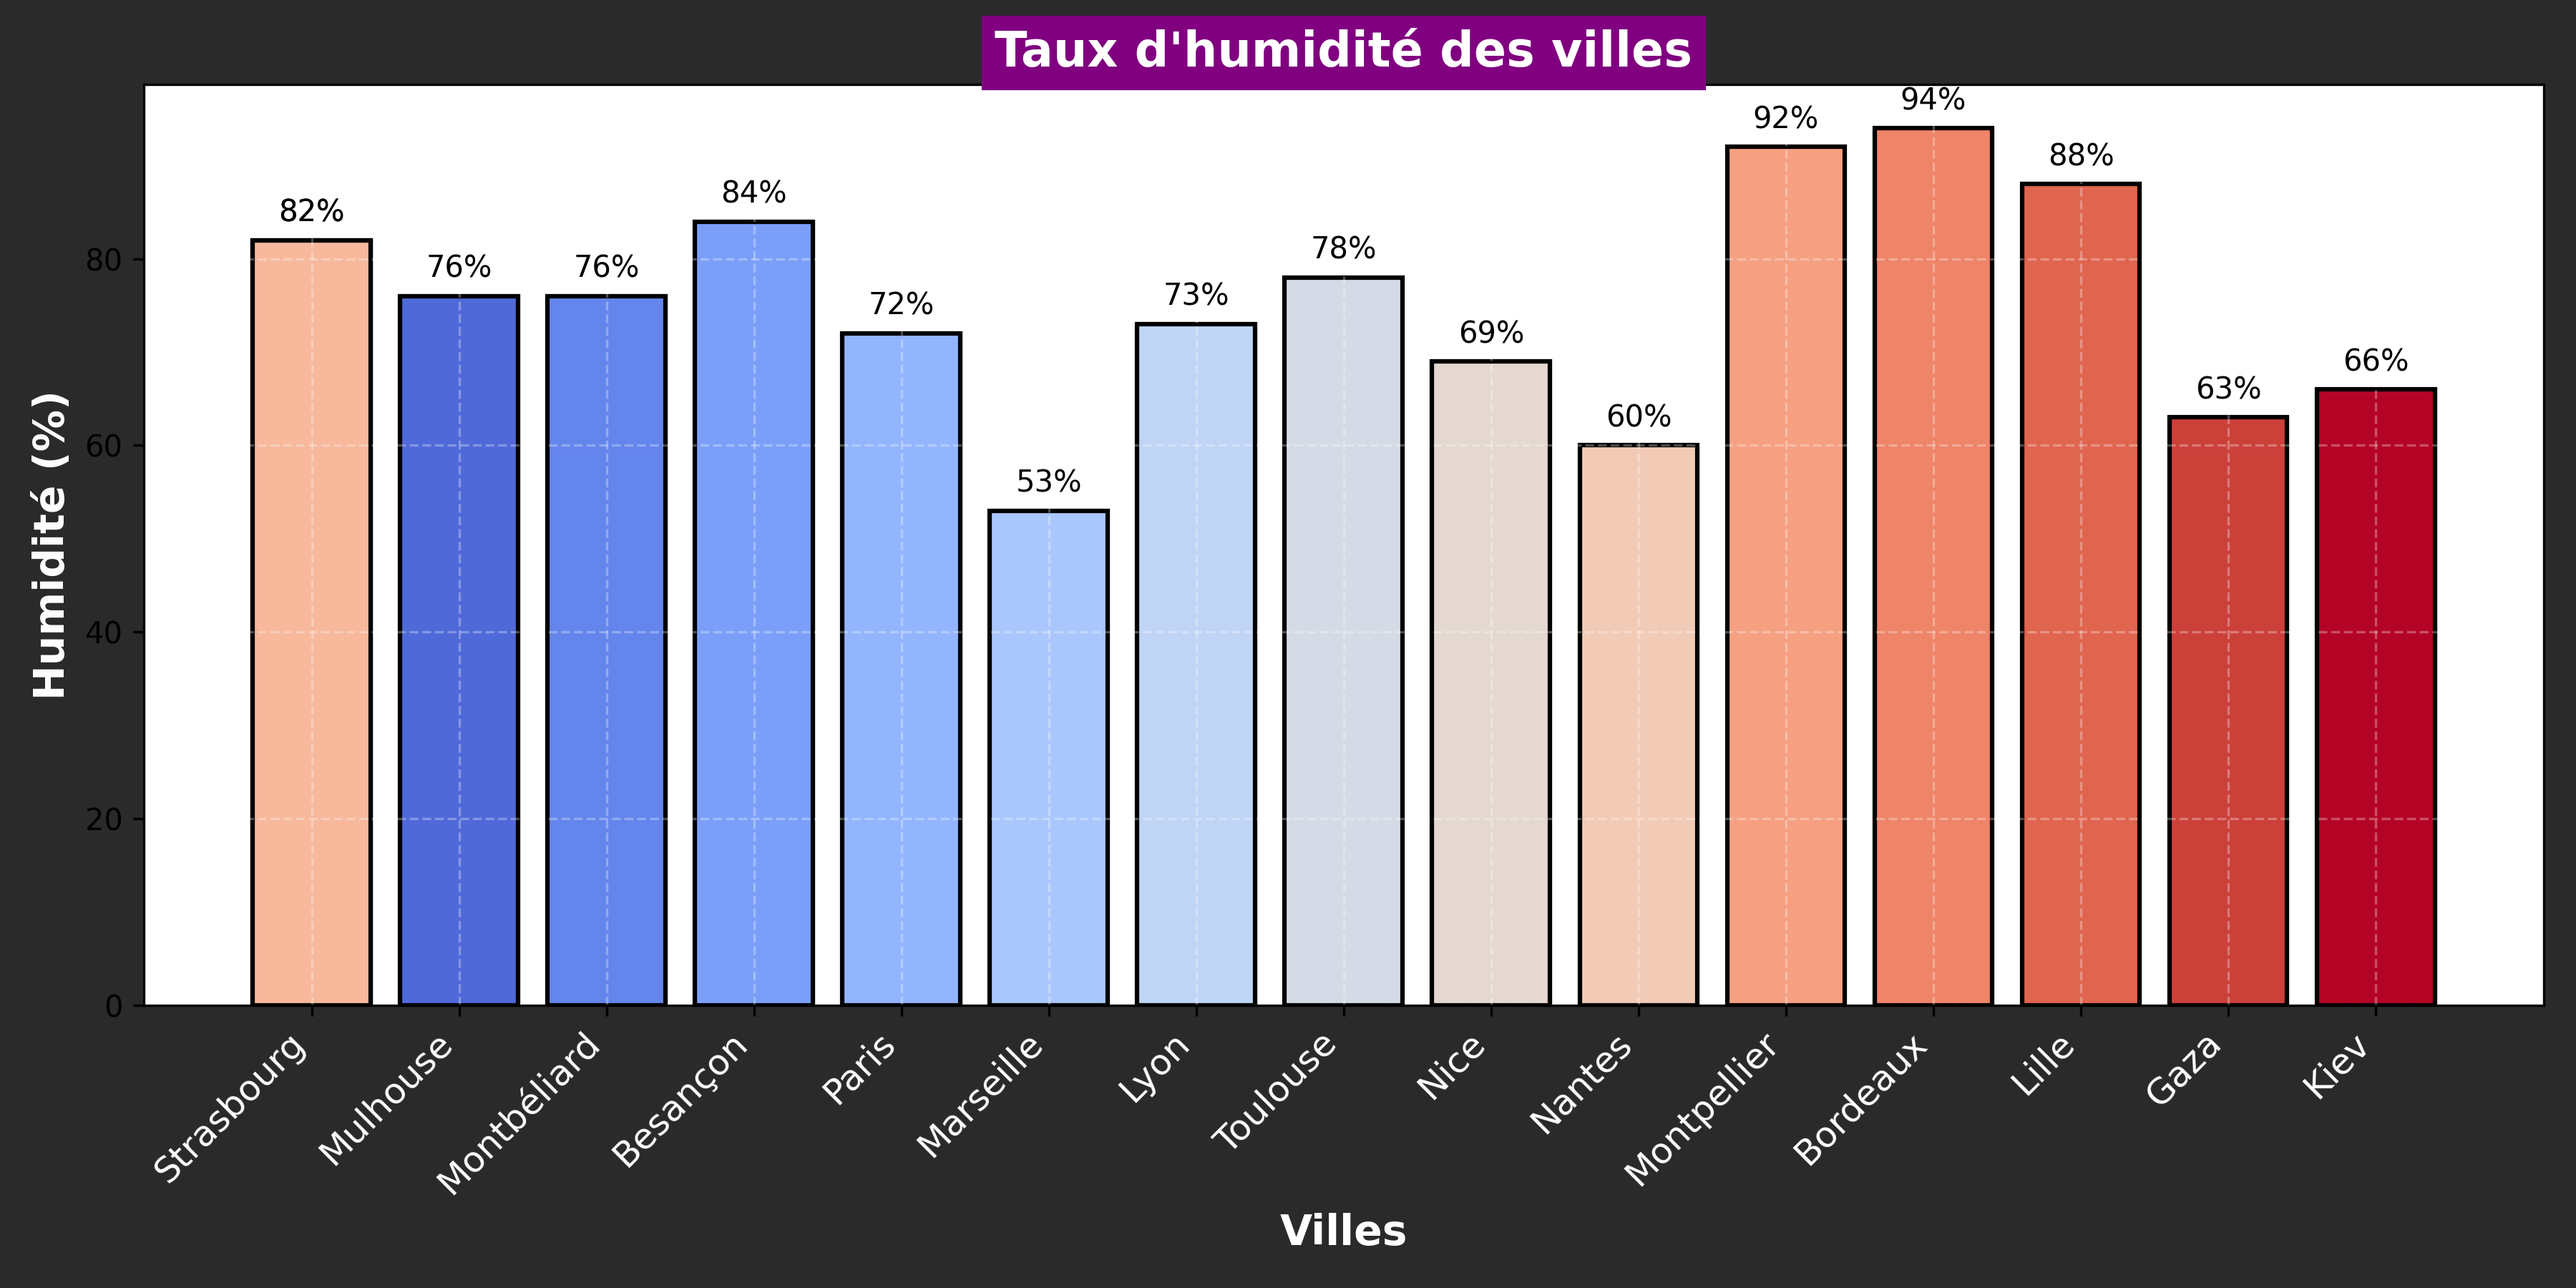
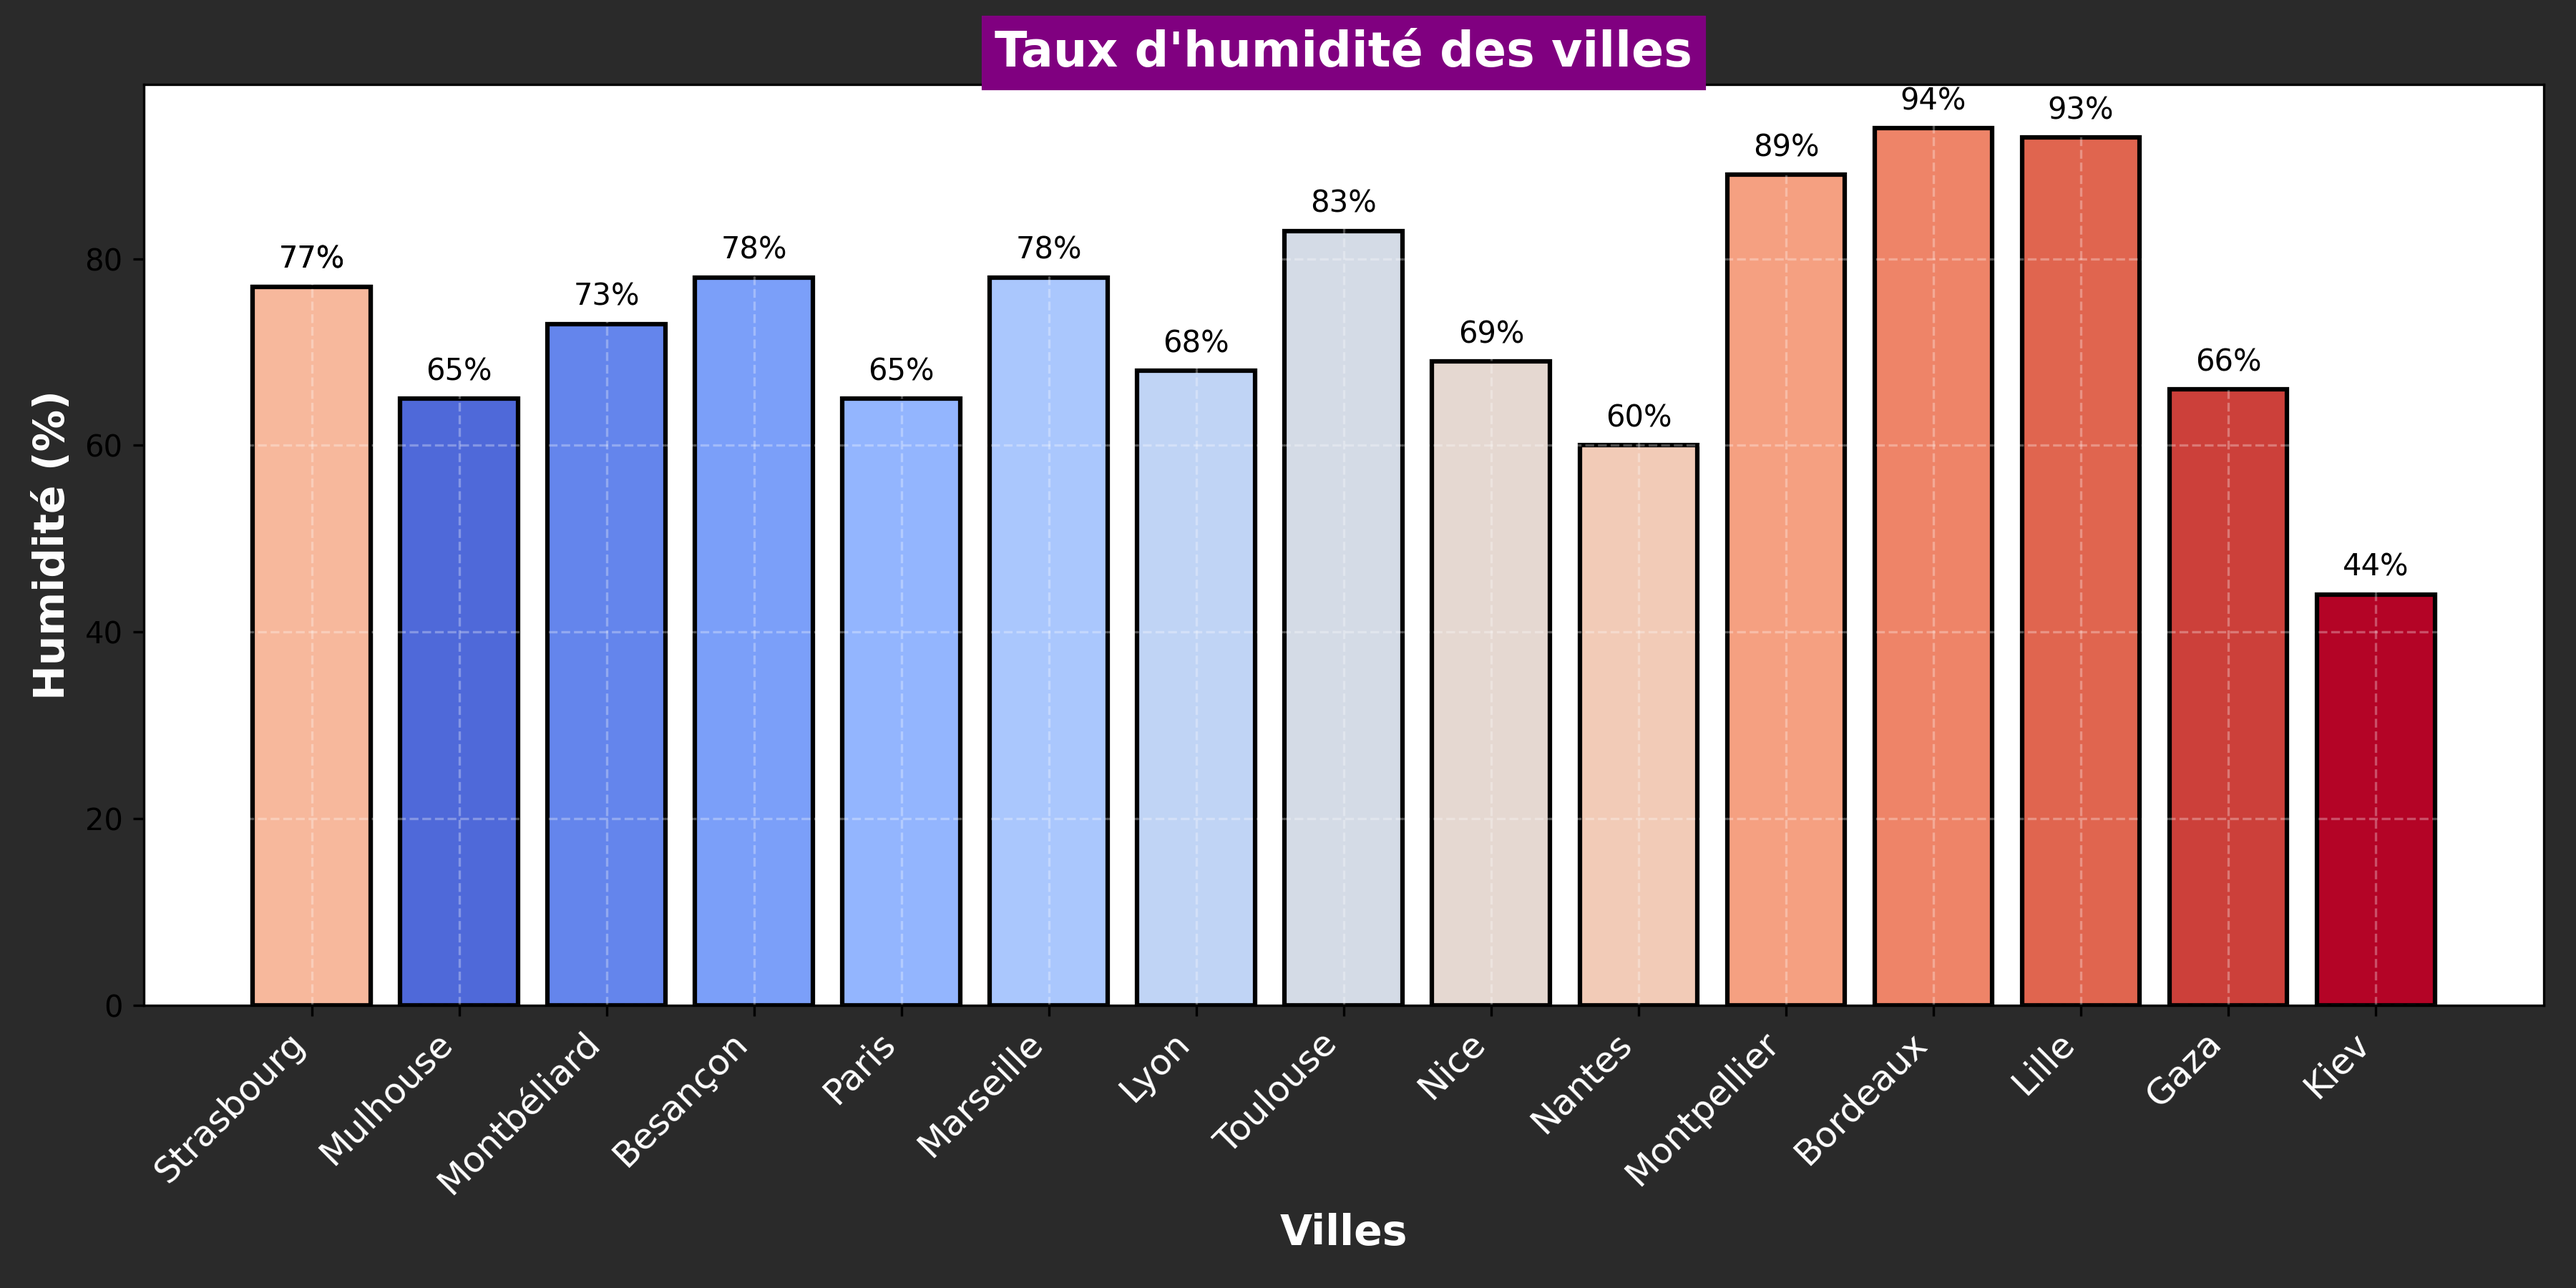
Mise à jour de la météo et ajout du graphique d'humidité

diff --git a/README.md b/README.md
@@ -24,103 +24,103 @@ Ce repo contient plusieurs workflows GitHub Actions :
 ## Météo actuelle :
 ## Météo des grandes villes + Gaza et Kiev 🌍
 
-🕒 Mise à jour : 12/07/2025 08:17:35
+🕒 Mise à jour : 13/07/2025 08:18:11
 
 ### 🌍 Strasbourg ☀
 **Conditions :** ciel dégagé
-**Température :** 15.94°C
-**Humidité :** 82%
-**Vent :** 0.51 m/s
+**Température :** 17.04°C
+**Humidité :** 77%
+**Vent :** 1.54 m/s
 
 ### 🌍 Mulhouse ☀
 **Conditions :** ciel dégagé
-**Température :** 16.32°C
-**Humidité :** 76%
-**Vent :** 1.03 m/s
+**Température :** 18.25°C
+**Humidité :** 65%
+**Vent :** 3.09 m/s
 
-### 🌍 Montbéliard 🌥
-**Conditions :** peu nuageux
-**Température :** 18.32°C
-**Humidité :** 76%
-**Vent :** 3.04 m/s
+### 🌍 Montbéliard ☀
+**Conditions :** ciel dégagé
+**Température :** 20.54°C
+**Humidité :** 73%
+**Vent :** 1.5 m/s
 
 ### 🌍 Besançon ☀
 **Conditions :** ciel dégagé
-**Température :** 16.85°C
-**Humidité :** 84%
-**Vent :** 1.72 m/s
+**Température :** 17.4°C
+**Humidité :** 78%
+**Vent :** 1.38 m/s
 
 ### 🌍 Paris ☀
 **Conditions :** ciel dégagé
-**Température :** 20.46°C
-**Humidité :** 72%
-**Vent :** 3.09 m/s
+**Température :** 19.75°C
+**Humidité :** 65%
+**Vent :** 2.57 m/s
 
-### 🌍 Marseille ☀
-**Conditions :** ciel dégagé
-**Température :** 20.29°C
-**Humidité :** 53%
-**Vent :** 1.58 m/s
+### 🌍 Marseille 🌥
+**Conditions :** partiellement nuageux
+**Température :** 20.7°C
+**Humidité :** 78%
+**Vent :** 2.24 m/s
 
-### 🌍 Lyon ☀
-**Conditions :** ciel dégagé
-**Température :** 17.07°C
-**Humidité :** 73%
-**Vent :** 1.04 m/s
+### 🌍 Lyon 🌥
+**Conditions :** nuageux
+**Température :** 20.75°C
+**Humidité :** 68%
+**Vent :** 1.08 m/s
 
 ### 🌍 Toulouse 🌥
 **Conditions :** nuageux
-**Température :** 22.99°C
-**Humidité :** 78%
-**Vent :** 0 m/s
+**Température :** 19.99°C
+**Humidité :** 83%
+**Vent :** 2.57 m/s
 
-### 🌍 Nice ☀
-**Conditions :** ciel dégagé
-**Température :** 14.72°C
+### 🌍 Nice 🌥
+**Conditions :** nuageux
+**Température :** 16.94°C
 **Humidité :** 69%
-**Vent :** 0.99 m/s
+**Vent :** 0.86 m/s
 
 ### 🌍 Nantes ☀
 **Conditions :** ciel dégagé
 **Température :** 21.96°C
 **Humidité :** 60%
-**Vent :** 4.63 m/s
+**Vent :** 3.09 m/s
 
 ### 🌍 Strasbourg ☀
 **Conditions :** ciel dégagé
-**Température :** 15.94°C
-**Humidité :** 82%
-**Vent :** 0.51 m/s
+**Température :** 17.04°C
+**Humidité :** 77%
+**Vent :** 1.54 m/s
 
 ### 🌍 Montpellier 🌥
-**Conditions :** couvert
-**Température :** 19.72°C
-**Humidité :** 92%
-**Vent :** 2.57 m/s
-
-### 🌍 Bordeaux ☀
-**Conditions :** ciel dégagé
-**Température :** 19.15°C
-**Humidité :** 94%
-**Vent :** 1.03 m/s
-
-### 🌍 Lille ☀
-**Conditions :** ciel dégagé
-**Température :** 17.94°C
-**Humidité :** 88%
+**Conditions :** peu nuageux
+**Température :** 20.28°C
+**Humidité :** 89%
 **Vent :** 3.6 m/s
+
+### 🌍 Bordeaux 🌥
+**Conditions :** couvert
+**Température :** 20.15°C
+**Humidité :** 94%
+**Vent :** 3.09 m/s
+
+### 🌍 Lille 🌥
+**Conditions :** couvert
+**Température :** 16.44°C
+**Humidité :** 93%
+**Vent :** 2.06 m/s
 
 ### 🌍 Gaza ☀
 **Conditions :** ciel dégagé
-**Température :** 30.1°C
-**Humidité :** 63%
-**Vent :** 1.76 m/s
-
-### 🌍 Kiev ☀
-**Conditions :** ciel dégagé
-**Température :** 20.96°C
+**Température :** 27.95°C
 **Humidité :** 66%
-**Vent :** 0.45 m/s
+**Vent :** 2.54 m/s
+
+### 🌍 Kiev 🌥
+**Conditions :** peu nuageux
+**Température :** 21.45°C
+**Humidité :** 44%
+**Vent :** 1.6 m/s
 
 <p align='center'><img src='https://raw.githubusercontent.com/khoa083/khoa/main/Khoa_ne/img/Rainbow.gif' width='100%' style='border-radius: 5px; border: 3px solid #39FF14; box-shadow: 0 0 10px #39FF14, 0 0 20px #39FF14;' /></p>
 
